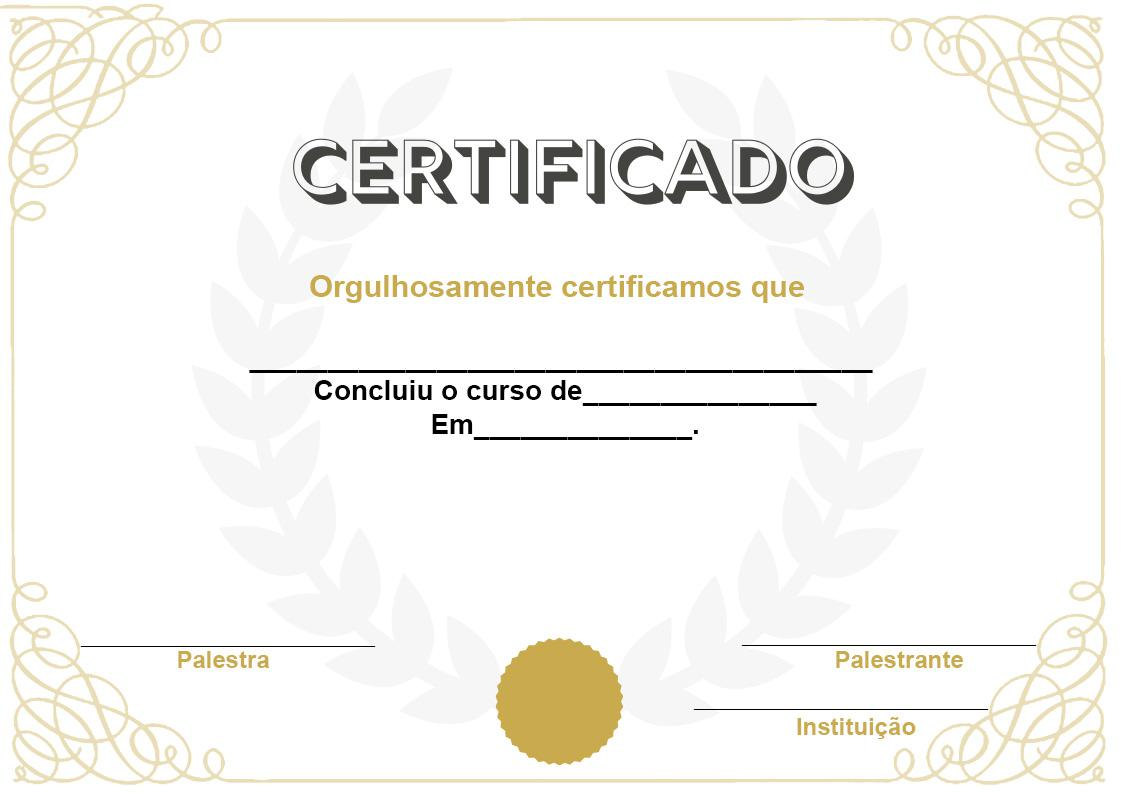
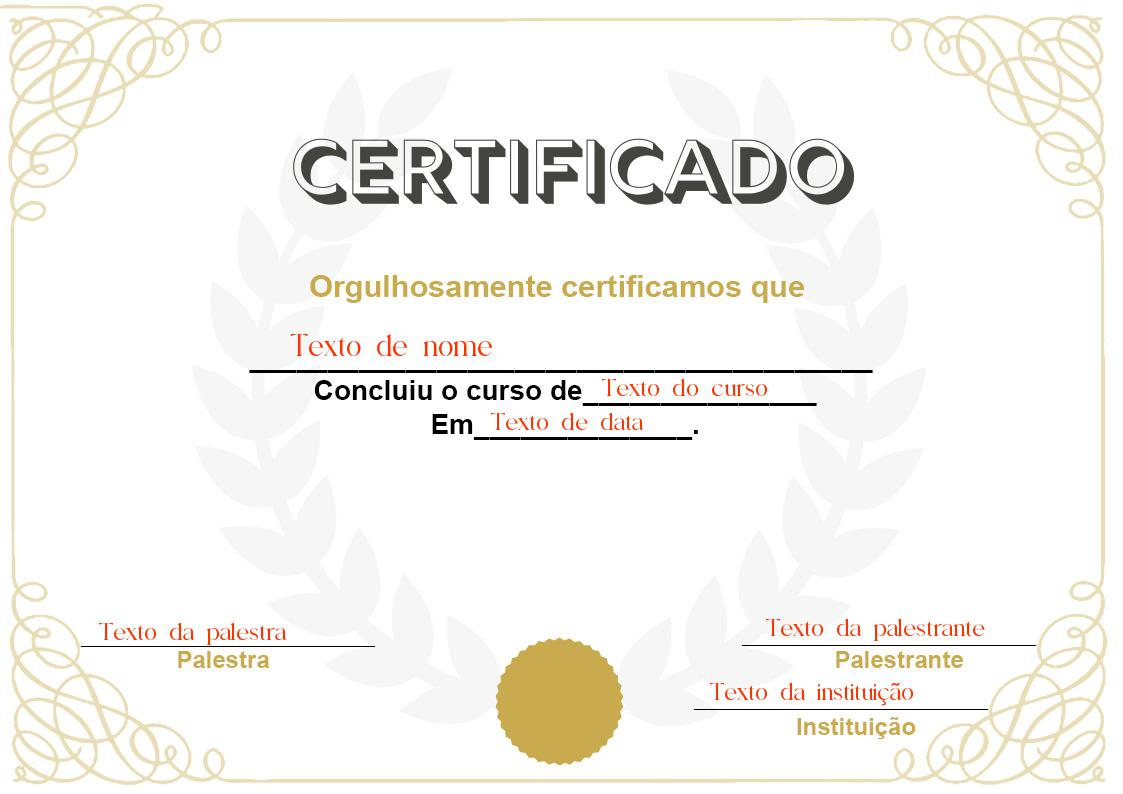
update ajustes para visualizar posição do texto no certificado

diff --git a/index.php b/index.php
@@ -130,6 +130,7 @@ if( $_GET['acao'] == 'prnCertificado'){
 	";
 	//die($sql);
 	$result = $conn->query($sql);
+	
 	if( $result )
 	$row = $result->fetch_assoc();
 	$sql2 = "SELECT * FROM certificado where id= {$row['certificado_id']} ";
@@ -188,7 +189,7 @@ $data = 'otpauth://totp/test?secret=B3JX4VCVJDVNXNZ5&issuer=chillerlan.net';
 QRcode::png($data, 'out.png');
 */
 
-include '/phpqrcode/qrlib.php';
+include 'phpqrcode/qrlib.php';
 $text = (isset($_SERVER['HTTPS']) && $_SERVER['HTTPS'] === 'on' ? "https" : "http") . "://" . $_SERVER['HTTP_HOST'] . $_SERVER['PHP_SELF'];
 $text.= "?acao=prnCertificado&id= id= {$_GET['id']}";
 //echo $text;  
@@ -289,8 +290,7 @@ if( $_GET['acao'] == 'certificadoAlunoNova' || $_GET['acao'] == 'certificadoAlun
 		$_POST['id']=$row['id'];
 	}
 
-	
-	if( $_POST['OK'] ) {
+	if( isset($_POST['OK']) ) {
 		$form = 1;
 		$erro=0;
 		if( !$_POST['aluno'] ) { $nome_erro = "o aluno estar vazio"; $erro = 1; }
@@ -303,7 +303,7 @@ if( $_GET['acao'] == 'certificadoAlunoNova' || $_GET['acao'] == 'certificadoAlun
 					email='{$_POST['email']}'
 				where id = {$_POST['id']}";
 			} else {
-				$sql = "INSERT INTO certificadoAluno (id_aluno, id_palestra ) VALUES ({$_POST['aluno']},{$_POST['palestra']})";
+				$sql = "INSERT INTO certificadoAluno (id_aluno, id_palestra ) VALUES ({$_POST['aluno']}, {$_POST['palestra']})";
 			}
 		require_once('mysql.php');		
 		$result = $conn->query($sql);
@@ -384,6 +384,7 @@ if( $_GET['acao'] == 'certificadoAlunoNova' || $_GET['acao'] == 'certificadoAlun
 	require_once('mysql.php');
 	$sql = " select * from aluno order by nome";
 
+	$aluno = '';
 	$result = $conn->query($sql);
 	while($row = $result->fetch_assoc()) {
 		$aluno .= "<option value='{$row['id']}'>{$row['nome']}</option>";
@@ -391,8 +392,9 @@ if( $_GET['acao'] == 'certificadoAlunoNova' || $_GET['acao'] == 'certificadoAlun
 
 	$sql = " select * from palestra order by nome";
 	$result = $conn->query($sql);
+	$palestra = '';
 	while($row = $result->fetch_assoc()) {
-		$palestra .= "<option value='{$row['id']}'>{$row['nome']}</option>";
+		$palestra .= "<option value='{$row['id']}'>{$row['nome']} - " . date('d/m/Y', strtotime($row['data'])) . "</option>";
 	}
 
 ?>
@@ -410,9 +412,9 @@ if( $_GET['acao'] == 'certificadoAlunoNova' || $_GET['acao'] == 'certificadoAlun
 				<div class='alert alert-success' role='alert'>
 					<form method="post" action="index.php?acao=<?php echo $_GET['acao'] ?>">
 					<table class='table table-bordered'>
-					<tr><td>Nome </td><td>  <select name='aluno'> <?php echo $aluno; ?> </select> </td><td><?php echo $aluno_erro ?></td></tr>
-					<tr><td>Palestra</td><td>  <select name='palestra'> <?php echo $palestra; ?> </select> </td><td><?php echo $palestra_erro ?></td></tr>
-					<input type="hidden" name="id" value="<?php echo $_POST['id'] ?>">
+					<tr><td>Nome </td><td>  <select name='aluno'> <?php echo $aluno; ?> </select> </td><td><?php echo $aluno_erro ?? '' ?></td></tr>
+					<tr><td>Palestra</td><td>  <select name='palestra'> <?php echo $palestra; ?> </select> </td><td><?php echo $palestra_erro ?? '' ?></td></tr>
+					<input type="hidden" name="id" value="<?php echo $_POST['id'] ?? '' ?>">
 					<tr><td><input type="submit" name="OK" value="OK"></td></tr>
 				</div>
 

diff --git a/certificado.php b/certificado.php
@@ -69,6 +69,7 @@ if(isset($_POST['Salvar']))
 		
 	}
 
+if(isset($_GET['ler']))
 if( $_GET['ler'] == 1 ) {
 	if( $_GET['certificado'] ) {
 		require_once('mysql.php');
@@ -77,7 +78,6 @@ if( $_GET['ler'] == 1 ) {
 		$result = $conn->query($sql);
 		$row = $result->fetch_assoc();
 	
-		
 		$_POST['arquivo'] = $row['arquivo'];
 		
 		$_POST['nome_fonte'] = $row['nome_fonte'];
@@ -105,6 +105,8 @@ if( $_GET['ler'] == 1 ) {
 		$_POST['instituicaoy'] = $row['instituicaoy'];		
 	}
 }
+
+
 
 if (isset($_POST['texto'])) {
     if ($_POST['texto'] == 'nome') {
@@ -167,6 +169,8 @@ if (isset($_POST['texto'])) {
         $_POST['instituicaox'] = $instituicaox;
         $_POST['instituicaoy'] = $instituicaoy;
     }
+
+
 }
 ?>
 
@@ -193,7 +197,8 @@ if (isset($_POST['texto'])) {
 	<input type="submit" name="Salvar" value="Salvar"><br>
 
 
-	<input type="image" src="<?php echo '/certificados/'.$_POST['arquivo']; ?>">
+<!--	<input type="image" src="<?php echo '/certificados/'.$_POST['arquivo']; ?>"> --> 
+	<input type="image" src="<?php echo 'out.jpg'; ?>">
 
 
 	<input type="hidden" name="nomex" value="<?php echo $_POST['nomex'];?>">
@@ -234,7 +239,7 @@ $jpg_image = imagecreatefromjpeg('certificados/'.$_POST['arquivo']);
 
 // Allocate A Color For The Text
 #$white = imagecolorallocate($jpg_image, 255, 255, 255);
-$white = imagecolorallocate($jpg_image, 255, 0, 0);
+$white = imagecolorallocate($jpg_image, 255, 50, 0);
 
 // Set Path to Font File
 #$font_path = './VelomiaVanora.ttf';
@@ -243,9 +248,12 @@ $font_path = './VelomiaVanora.ttf';
 // Set Text to Be Printed On Image
 $text = "This is a sunset!";
 
+//var_dump($_POST['nome_fonte'], 0, $_POST['nomex'], $_POST['nomey'], $white, $font_path, "Texto de nome");
+
 // Print Text On Image
 //imagettftext($jpg_image, $size, 0, 75, 300, $white, $font_path, $text);
 //imagettftext($jpg_image, $size, 0, $x, $y, $white, $font_path, $text);
+
 imagettftext($jpg_image, $_POST['nome_fonte'], 0, $_POST['nomex'], $_POST['nomey'], $white, $font_path, "Texto de nome");
 imagettftext($jpg_image, $_POST['data_fonte'], 0, $_POST['datax'], $_POST['datay'], $white, $font_path, "Texto de data");
 imagettftext($jpg_image, $_POST['curso_fonte'], 0, $_POST['cursox'], $_POST['cursoy'], $white, $font_path, "Texto do curso");
